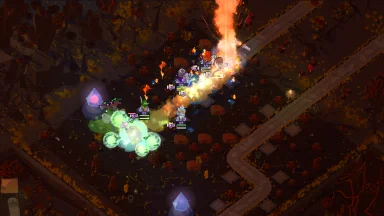
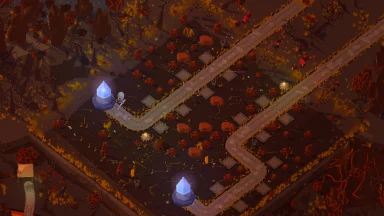
Backdrops: each plane's board alone with its props (no HUD, heroes or monsters: s_planes.mjs EMPTY)

diff --git a/js/backdrop.js b/js/backdrop.js
@@ -1,7 +1,7 @@
 /* The page's bottom layer changes with the section in view (26 Nov 2026): two fixed layers, the next
    section's picture fades in over the last. The title area shows the first section's. */
 (function () {
-  var V = '?v=3';
+  var V = '?v=4';
   var pics = { hero: 'hero', reaksi: 'reaksi', commander: 'commander', plane: 'plane', modes: 'modes', sumber: 'sumber', kota: 'kota', arena: 'arena', video: 'video', harga: 'harga' };
   var a = document.createElement('div'), b = document.createElement('div');
   a.className = b.className = 'bd';

diff --git a/index.html b/index.html
@@ -464,7 +464,7 @@
 
 <script src="js/hero-data.js?v=202611262" defer></script>
 <script src="js/heroes.js?v=202611263" defer></script>
-<script src="js/backdrop.js?v=202611267" defer></script>
+<script src="js/backdrop.js?v=202611268" defer></script>
 <script src="js/fireflies.js?v=202611265" defer></script>
 </body>
 </html>
